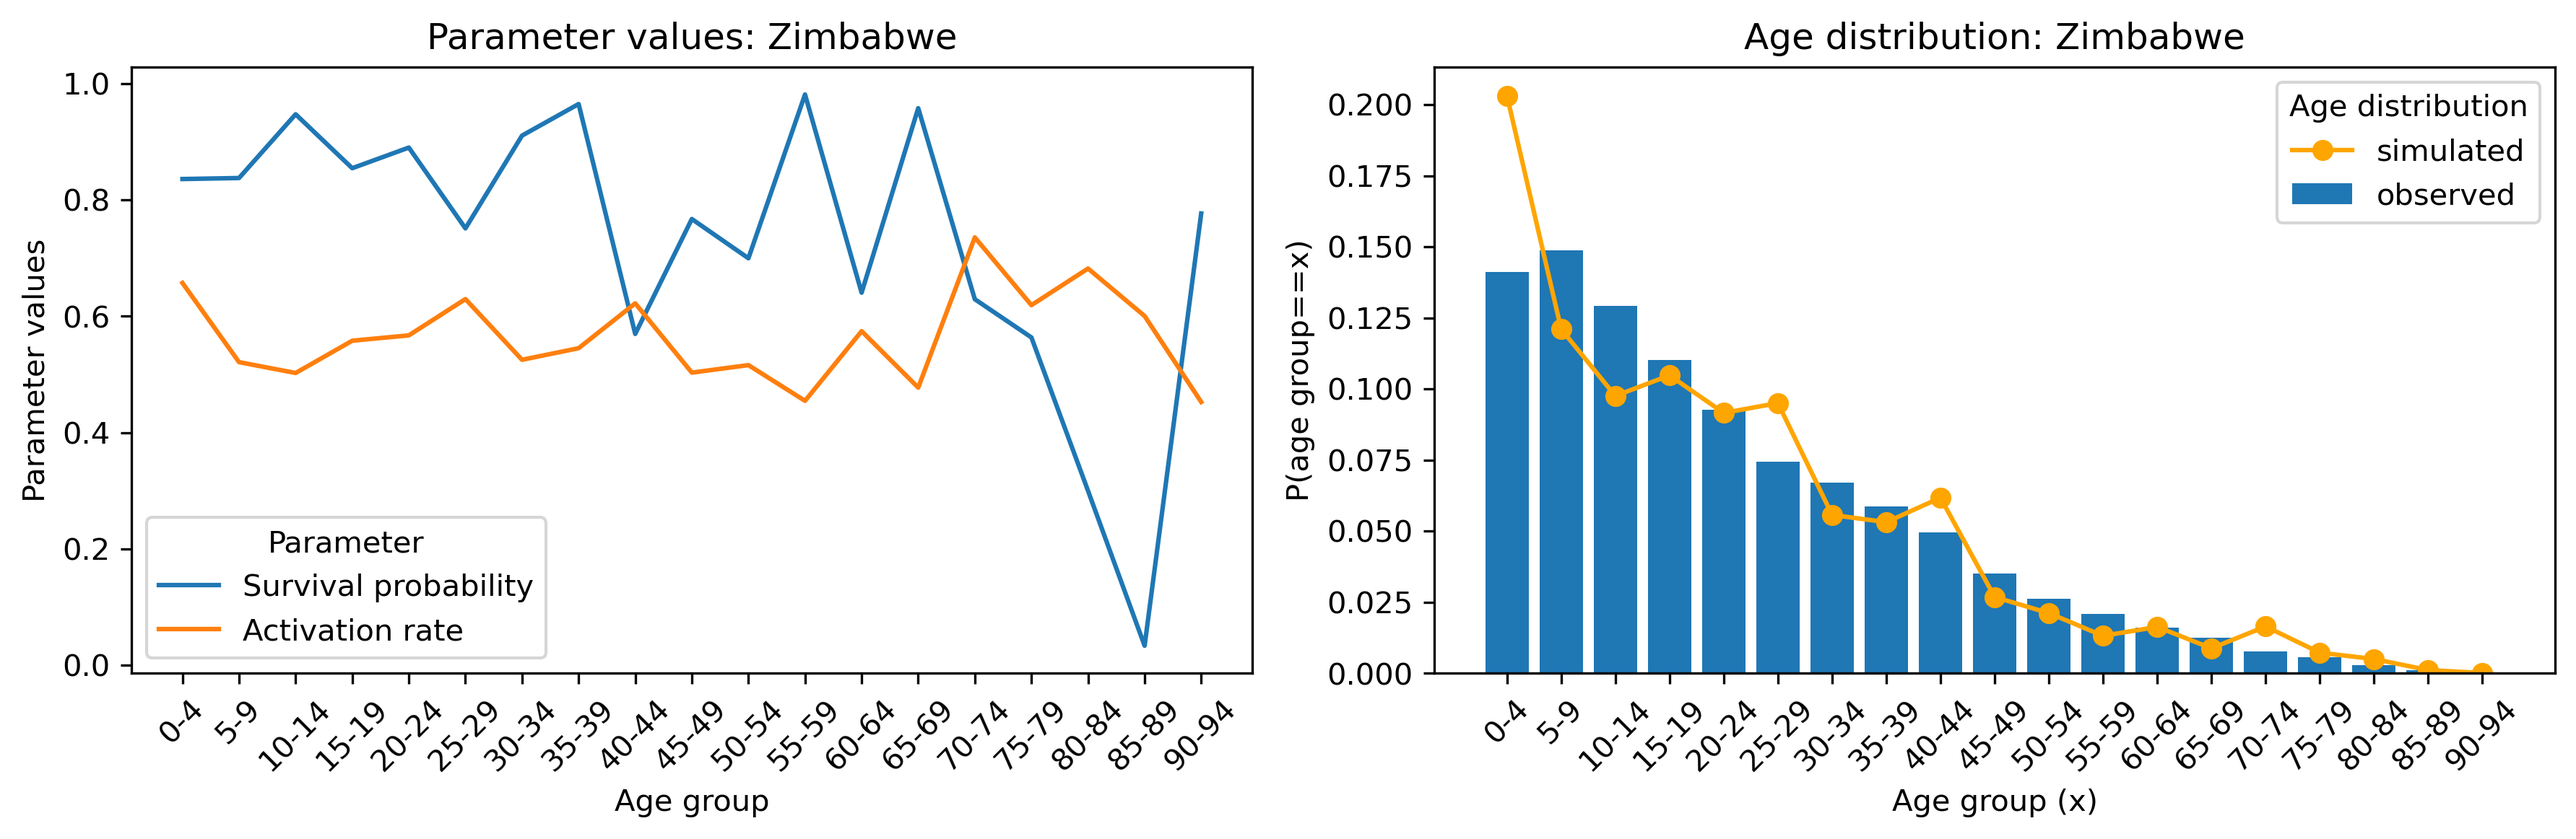
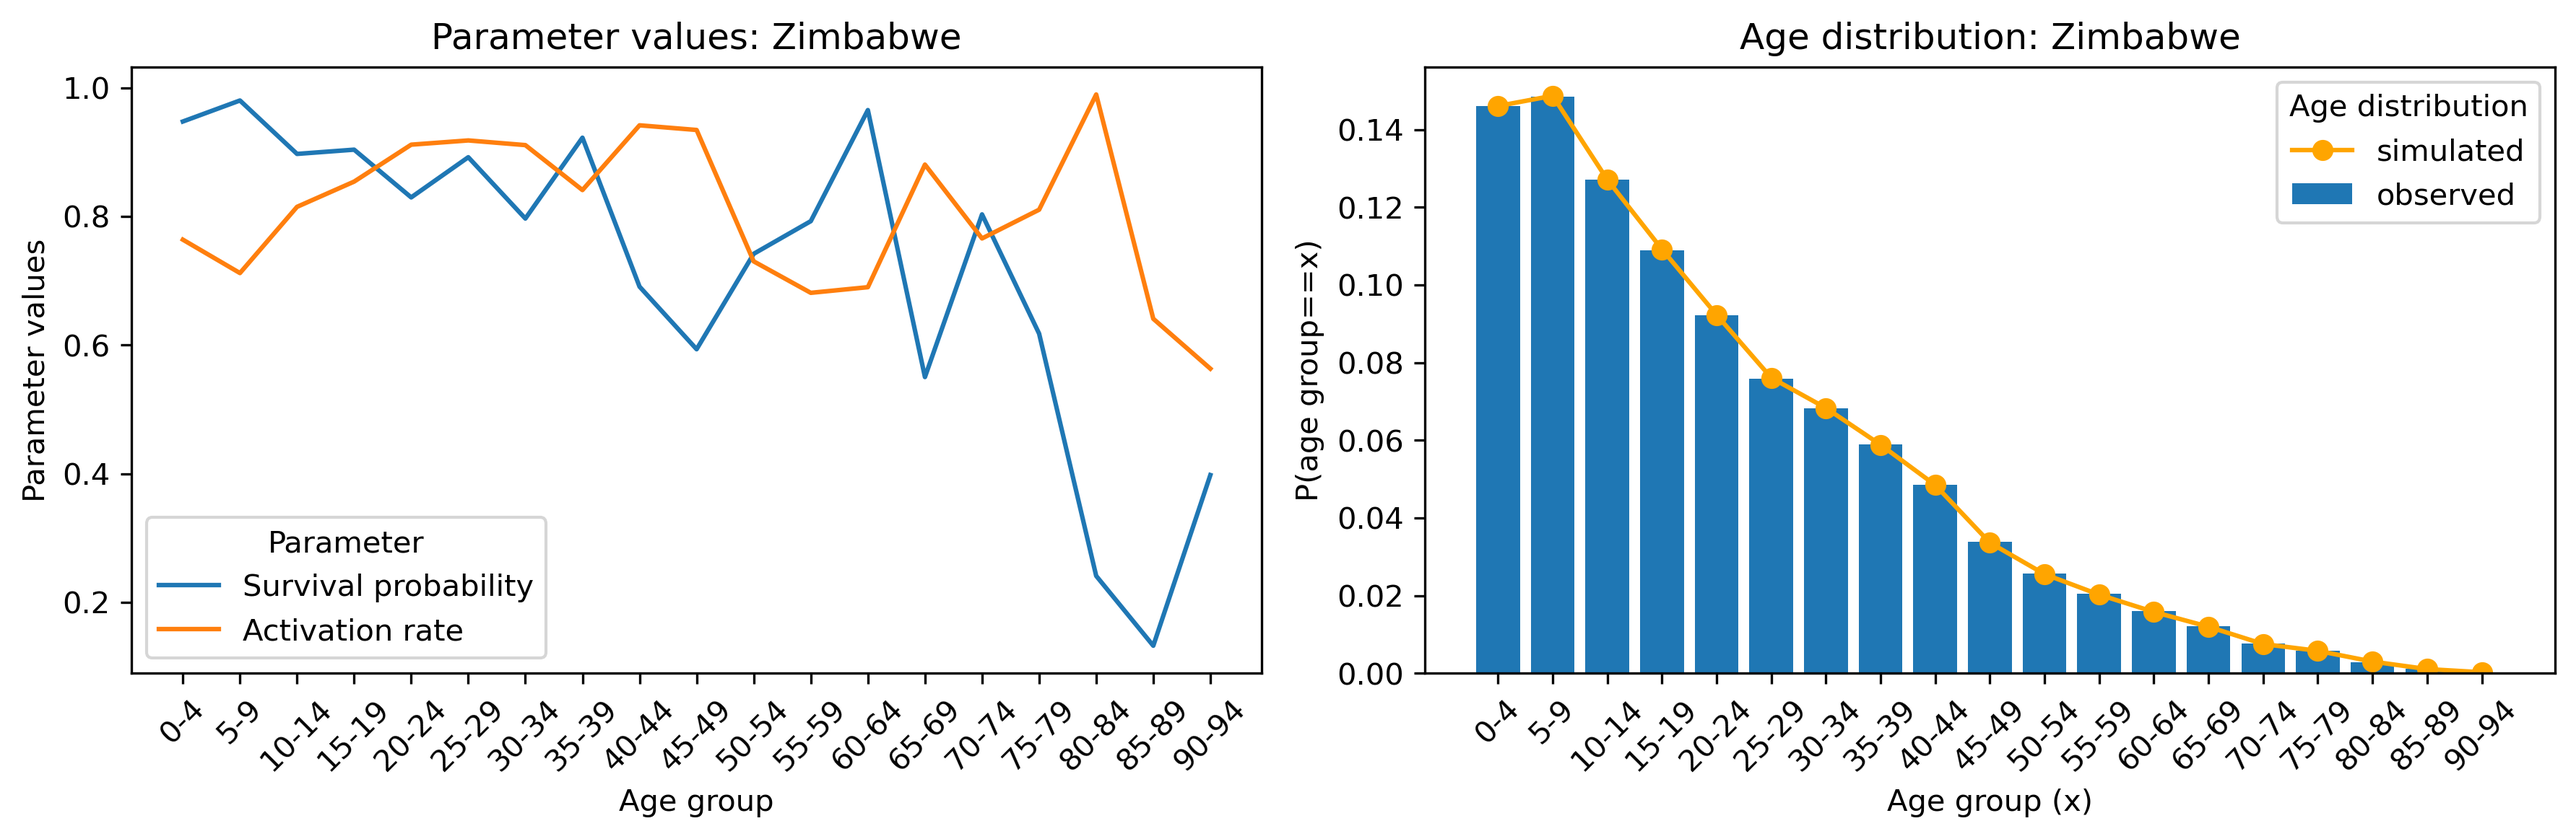
Updates to simulation code for model with activation, data viz

diff --git a/code/test2partialsoln_KRF_genetic.py b/code/test2partialsoln_KRF_genetic.py
@@ -11,6 +11,7 @@ Model 2: agents are subjected to the survival process of model 1 only if they
 import matplotlib.pyplot as plt
 import pandas as pd
 import numpy as np
+import seaborn as sns
 import os, warnings
 from joblib import Parallel, delayed
 
@@ -24,6 +25,8 @@ def pop_refine(pop_member):
         parm_vectors = analytic_solver(pop_member)
         activation_rates, survive_probas = parm_vectors
         
+        fix_attempt = 0
+        
         while any(x > 1 for x in survive_probas):
             # pop[i,:] = np.concatenate([np.random.rand(dimensions-1)*(1-baseval) + baseval, np.random.rand(1)*baseval + (1-baseval)])
             pop_member = np.random.rand(dimensions)*(1-baseval) + baseval
@@ -33,6 +36,15 @@ def pop_refine(pop_member):
             parm_vectors = analytic_solver(pop_member)
             activation_rates, survive_probas = parm_vectors
             
+            fix_attempt += 1
+            
+            if fix_attempt == 1e3:
+                
+                # print("Too many attempts to fix parameter set - moving on...")
+                break # if too many attempts to fix the paramters have been made move on
+        
+        # print("done")
+        
         return pop_member
 
 
@@ -97,7 +109,7 @@ def obj_func(solution):
 
 ## GET DATA
 
-df = pd.read_csv('%sdata/agedists_countries2020_other.csv' % home)
+df = pd.read_csv('%sdata/agedists_countries2019_other.csv' % home)
 
 ## TEST FUNCTION
 
@@ -133,7 +145,7 @@ max_itera = 250
 
 # target_dist_cum = np.cumsum(target_dist/target_dist.sum())
 
-numselect=6
+numselect=7 #6
 target_dist_full = df.iloc[numselect, -22:-1] #For now just do the check on the very first entry
 target_dist = target_dist_full[target_dist_full>0].copy() #Drop all age classes containing zero individuals (can be absorbed into a neighbouring class)
 
@@ -142,17 +154,17 @@ target_dist_noncum = target_dist/target_dist.sum()
 target_dist_cum = np.cumsum(target_dist/target_dist.sum())
 
 
-plt.figure(0, figsize=(8,4))
+# plt.figure(0, figsize=(8,4))
 
-plt.bar(height=target_dist/target_dist.sum(), x=target_dist.index)
-plt.xticks(rotation=45)
-plt.xlabel("Age group")
-plt.ylabel("P(age==x)")
-plt.title(f"Age distribution: {df.iloc[numselect,3]}")
+# plt.bar(height=target_dist/target_dist.sum(), x=target_dist.index)
+# plt.xticks(rotation=45)
+# plt.xlabel("Age group")
+# plt.ylabel("P(age==x)")
+# plt.title(f"Age distribution: {df.iloc[numselect,3]}")
 
-plt.tight_layout()
-# plt.savefig(f'agedist_empirical_{df.iloc[numselect,3]}.png', bbox_inches="tight", dpi=300)
-plt.show()
+# plt.tight_layout()
+# # plt.savefig(f'agedist_empirical_{df.iloc[numselect,3]}.png', bbox_inches="tight", dpi=300)
+# plt.show()
 
 
 ## TEST OPTIMIZATION
@@ -179,6 +191,12 @@ pop = np.array(Parallel(n_jobs=parallel_processes, verbose=0)(delayed(pop_refine
 
 best_sols = []
 
+# Plotting parameters
+cap = [ "A", "B", "C"]
+
+subcap_x = -0.05
+subcap_y = 1.05
+
 step = 0
 figcapture=0
 while True:
@@ -203,25 +221,27 @@ while True:
         # numerical_dist_noncum = numerical_dist.copy()
         # numerical_dist_noncum[1:] -= numerical_dist_noncum[:-1].copy()
         
-        plt.figure(1, figsize=(12,4))
+        plt.figure(1, figsize=(6,6))
         
-        plt.subplot(121)
-        plt.plot(survive_probas, label =  "Survival probability")
-        plt.plot(activation_rates, label = "Activation rate")
-        plt.xticks(np.arange(n_groups), list(target_dist.index), rotation=45)
+        plt.subplot(211)
+        ax1 = sns.lineplot(x=target_dist.index, y =survive_probas, label =  "Survival probability")
+        ax1.text(subcap_x, subcap_y, cap[0], transform=ax1.transAxes, size=9, weight='bold')
+        sns.lineplot(x=target_dist.index, y =activation_rates, label = "Activation rate")
+        plt.xticks(np.arange(n_groups), [])
         plt.legend(title="Parameter", loc = "lower left")
-        plt.xlabel("Age group")
+        plt.xlabel("")
         plt.ylabel("Parameter values")
-        plt.title(f"Parameter values: {df.iloc[numselect,3]}")
+        # plt.title(f"Parameter values: {df.iloc[numselect,3]}")
         
-        plt.subplot(122)
-        plt.bar(x=target_dist.index, height=target_dist_noncum, label = "observed")
-        plt.plot(numerical_dist_noncum,  'o-', color="orange", label = "simulated")
-        plt.legend(title="Age distribution", loc = "upper right")
+        plt.subplot(212)
+        ax2=sns.barplot(x=target_dist.index, y=target_dist_noncum, label = "observed", color = '#1f77b4')
+        ax2.text(subcap_x, subcap_y, cap[1], transform=ax2.transAxes, size=9, weight='bold') 
+        plt.plot(numerical_dist_noncum, "o--", color="orange", markerfacecolor='none', label = "simulated")
+        plt.legend(title=f"Age distribution: {df.iloc[numselect,3]}")
         plt.xticks(rotation=45)
-        plt.xlabel("Age group (x)")
-        plt.ylabel("P(age group==x)")
-        plt.title(f"Age distribution: {df.iloc[numselect,3]}")
+        plt.xlabel(r"Age group ($i$)")
+        plt.ylabel(r"P(age group==$i$)")
+        # plt.title(f"Age distribution: {df.iloc[numselect,3]}")
         
         # plt.subplot(133)
         # plt.bar(x=target_dist.index, height=target_dist_cum, label = "observed")
@@ -234,7 +254,8 @@ while True:
         # plt.title("Cumulative age distribution")
         
         plt.tight_layout()
-        plt.savefig(f'{home}data/gifimages/agedist_activationmodel_{df.iloc[numselect,3]}_fig{figcapture}.png', bbox_inches="tight", dpi=300)
+        # plt.savefig(f'{home}data/gifimages/agedist_activationmodel_{df.iloc[numselect,3]}_fig{figcapture}.png', bbox_inches="tight", dpi=300)
+        plt.savefig(f'agedist_{df.iloc[numselect,3]}_model_activation.png', bbox_inches="tight", dpi=300)
         plt.show()
         
         figcapture += 1

diff --git a/code/test2partialsoln_KRF_linreg.py b/code/test2partialsoln_KRF_linreg.py
@@ -9,6 +9,7 @@ Model 2: agents are subjected to the survival process of model 1 only if they
 '''
 ###########################################################################
 import matplotlib.pyplot as plt
+import seaborn as sns
 import pandas as pd
 import numpy as np
 import os, warnings
@@ -27,10 +28,14 @@ def pop_refine(pop_member): #Updates any initial parameter guesses that would vi
         while any(x > 1 for x in survive_probas):
             # pop[i,:] = np.concatenate([np.random.rand(dimensions-1)*(1-baseval) + baseval, np.random.rand(1)*baseval + (1-baseval)])
             pop_member = np.random.rand(dimensions)*(1-baseval) + baseval
+            pop_member[-1] = np.random.rand() #baseval argument is only to pick activation rates to return valid survival probabilties, final entry is p_n (survival probability of oldest age class) and so can just be chosen randomly
+
             # pop[i,:] = np.random.rand(dimensions)
             parm_vectors = analytic_solver(pop_member)
             activation_rates, survive_probas = parm_vectors
-            
+        
+        print("done")    
+        
         return pop_member
 
 
@@ -75,6 +80,21 @@ def obj_func_solver(solution):
         
         uages, freqs = np.unique(ages, return_counts=True)
         ages_history[uages, itera] = freqs
+        
+        # if itera == max_itera-1:
+            
+        #     plt.figure(0, figsize=(6,4))
+            
+        #     for i in range(n_groups):
+        #         plt.plot(ages_history[i,:], color = palette[i])
+        #     plt.xlabel("Timestep")
+        #     plt.ylabel("# of individuals in age class")
+        #     plt.xlim([0,max_itera-1])
+        #     plt.title(f"Population: {df.iloc[numselect,3]}")
+            
+        #     plt.tight_layout()
+        #     # plt.savefig(f'timeseries_{df.iloc[numselect,3]}_model_fitted.png', bbox_inches="tight", dpi=500)
+        #     plt.show()
 
     ages_final = ages_history[:,-100::].mean(axis=1)
     ages_dist_noncum = ages_final/ages_final.sum()
@@ -88,7 +108,7 @@ def obj_func_simpler(activation_rates, survive_probas):
     
     for itera in range(max_itera):
         
-        active = activation_rates[ages] < np.random.rand(pop_size)
+        active = activation_rates[ages] > np.random.rand(pop_size)
         # active = np.ones(pop_size).astype(bool) # uncomment to use model 1
         trials = np.random.rand(pop_size)
         survival_probabilities = survive_probas[ages]
@@ -120,12 +140,12 @@ def unpacker(output,entry): #To unpack results from simulations
 
 ## GET DATA
 
-df = pd.read_csv('%sdata/agedists_countries2019_md.csv' % home)
+df = pd.read_csv('%sdata/agedists_countries2019_other.csv' % home)
 
 ## TEST FUNCTION
 
-pop_size = 1000
-max_itera = 1000
+pop_size = 10000
+max_itera = 250
 # n_groups = 90-18
 
 # survive_probas = 1 - np.random.rand(91)*.1
@@ -156,7 +176,7 @@ max_itera = 1000
 
 # target_dist_cum = np.cumsum(target_dist/target_dist.sum())
 
-numselect=37 #6
+numselect=122 #6
 target_dist_full = df.iloc[numselect, -22:-1] #For now just do the check on the very first entry
 target_dist = target_dist_full[target_dist_full>0].copy() #Drop all age classes containing zero individuals (can be absorbed into a neighbouring class)
 
@@ -164,6 +184,8 @@ n_groups = len(target_dist) # Set number of groups to match age classes in data
 target_dist_noncum = target_dist/target_dist.sum()
 target_dist_cum = np.cumsum(target_dist/target_dist.sum())
 
+# generate colour palette based on n_groups
+palette = sns.color_palette("flare", n_groups)
 
 # plt.figure(0, figsize=(8,4))
 
@@ -180,18 +202,20 @@ target_dist_cum = np.cumsum(target_dist/target_dist.sum())
 
 ## TEST OPTIMIZATION
 
-popsize = 5000
-parallel_processes = 64
+popsize = 100
+parallel_processes = -1 #use all available CPUs
 
 # bounds = np.array(list(zip(np.zeros(n_groups*2), np.ones(n_groups*2))))
-bounds = np.array(list(zip(1e-6+np.zeros(n_groups + 1), np.ones(n_groups + 1))))
+bounds = np.array(list(zip(1e-6+np.zeros(n_groups + 1), np.ones(n_groups + 1)))) # adding +1 because we want to generate 21 activation rates, and p_n the final surivival probability
 min_b, max_b = np.asarray(bounds).T
 diff = np.fabs(min_b - max_b)
 dimensions = len(bounds)
 # pop =  np.random.rand(popsize, dimensions)*.8 + .2
-baseval = 0.4 #Minimum value for the initial parameter values
+baseval = 0.4 #Minimum value for the initial parameter values (pick a value that admits valid sivival probabilities)
 # pop_init = np.concatenate([np.random.rand(popsize, dimensions-1)*(1-baseval) + baseval, np.random.rand(popsize,1)*baseval + (1-baseval)], axis=1)
 pop_init = np.random.rand(popsize, dimensions)*(1-baseval) + baseval
+pop_init[:,-1] = np.random.rand(popsize) #baseval argument is only to pick activation rates to return valid survival probabilties, final entry is p_n (survival probability of oldest age class) and so can just be chosen randomly
+
 # pop_init =  np.random.rand(popsize, dimensions)
 pop = np.array(Parallel(n_jobs=parallel_processes, verbose=0)(delayed(pop_refine)(pop_member) for pop_member in pop_init))
 

diff --git a/code/model_fitted_KRF.py b/code/model_fitted_KRF.py
@@ -307,10 +307,10 @@ plt.figure(0, figsize=(6,6))
 plt.subplot(211)
 ax1=sns.lineplot(x=target_dist.index, y = analytical_survival_probs)
 ax1.text(subcap_x, subcap_y, cap[0], transform=ax1.transAxes, size=9, weight='bold')
-ax1.text(0.1, 0.1, r"$p_{100+}$ = %.2f" % p_n, transform=ax1.transAxes)    
+# ax1.text(0.1, 0.1, r"$p_{100+}$ = %.2f" % p_n, transform=ax1.transAxes)    
 # plt.legend(title="Solution")
 plt.xticks(np.arange(n_groups), [])
-plt.xlabel(r"Age group ($i$)")
+plt.xlabel("")
 plt.ylabel(r"Survival probability ($p_i$)")
 
 plt.subplot(212)

diff --git a/code/model_KRF.py b/code/model_KRF.py
@@ -68,7 +68,7 @@ def obj_func(survive_probas):
     # uages, freqs = np.unique(ages, return_counts=True)
     # ages_final[uages] = freqs
     ages_final = ages_history[:,-100::].mean(axis=1)
-    ages_dist = np.cumsum(ages_final/ages_final.sum())
+    # ages_dist = np.cumsum(ages_final/ages_final.sum())
     ages_dist_noncum = ages_final/ages_final.sum()
     
     return (np.mean(np.abs(ages_dist_noncum - target_dist_noncum)), ages_dist_noncum)
